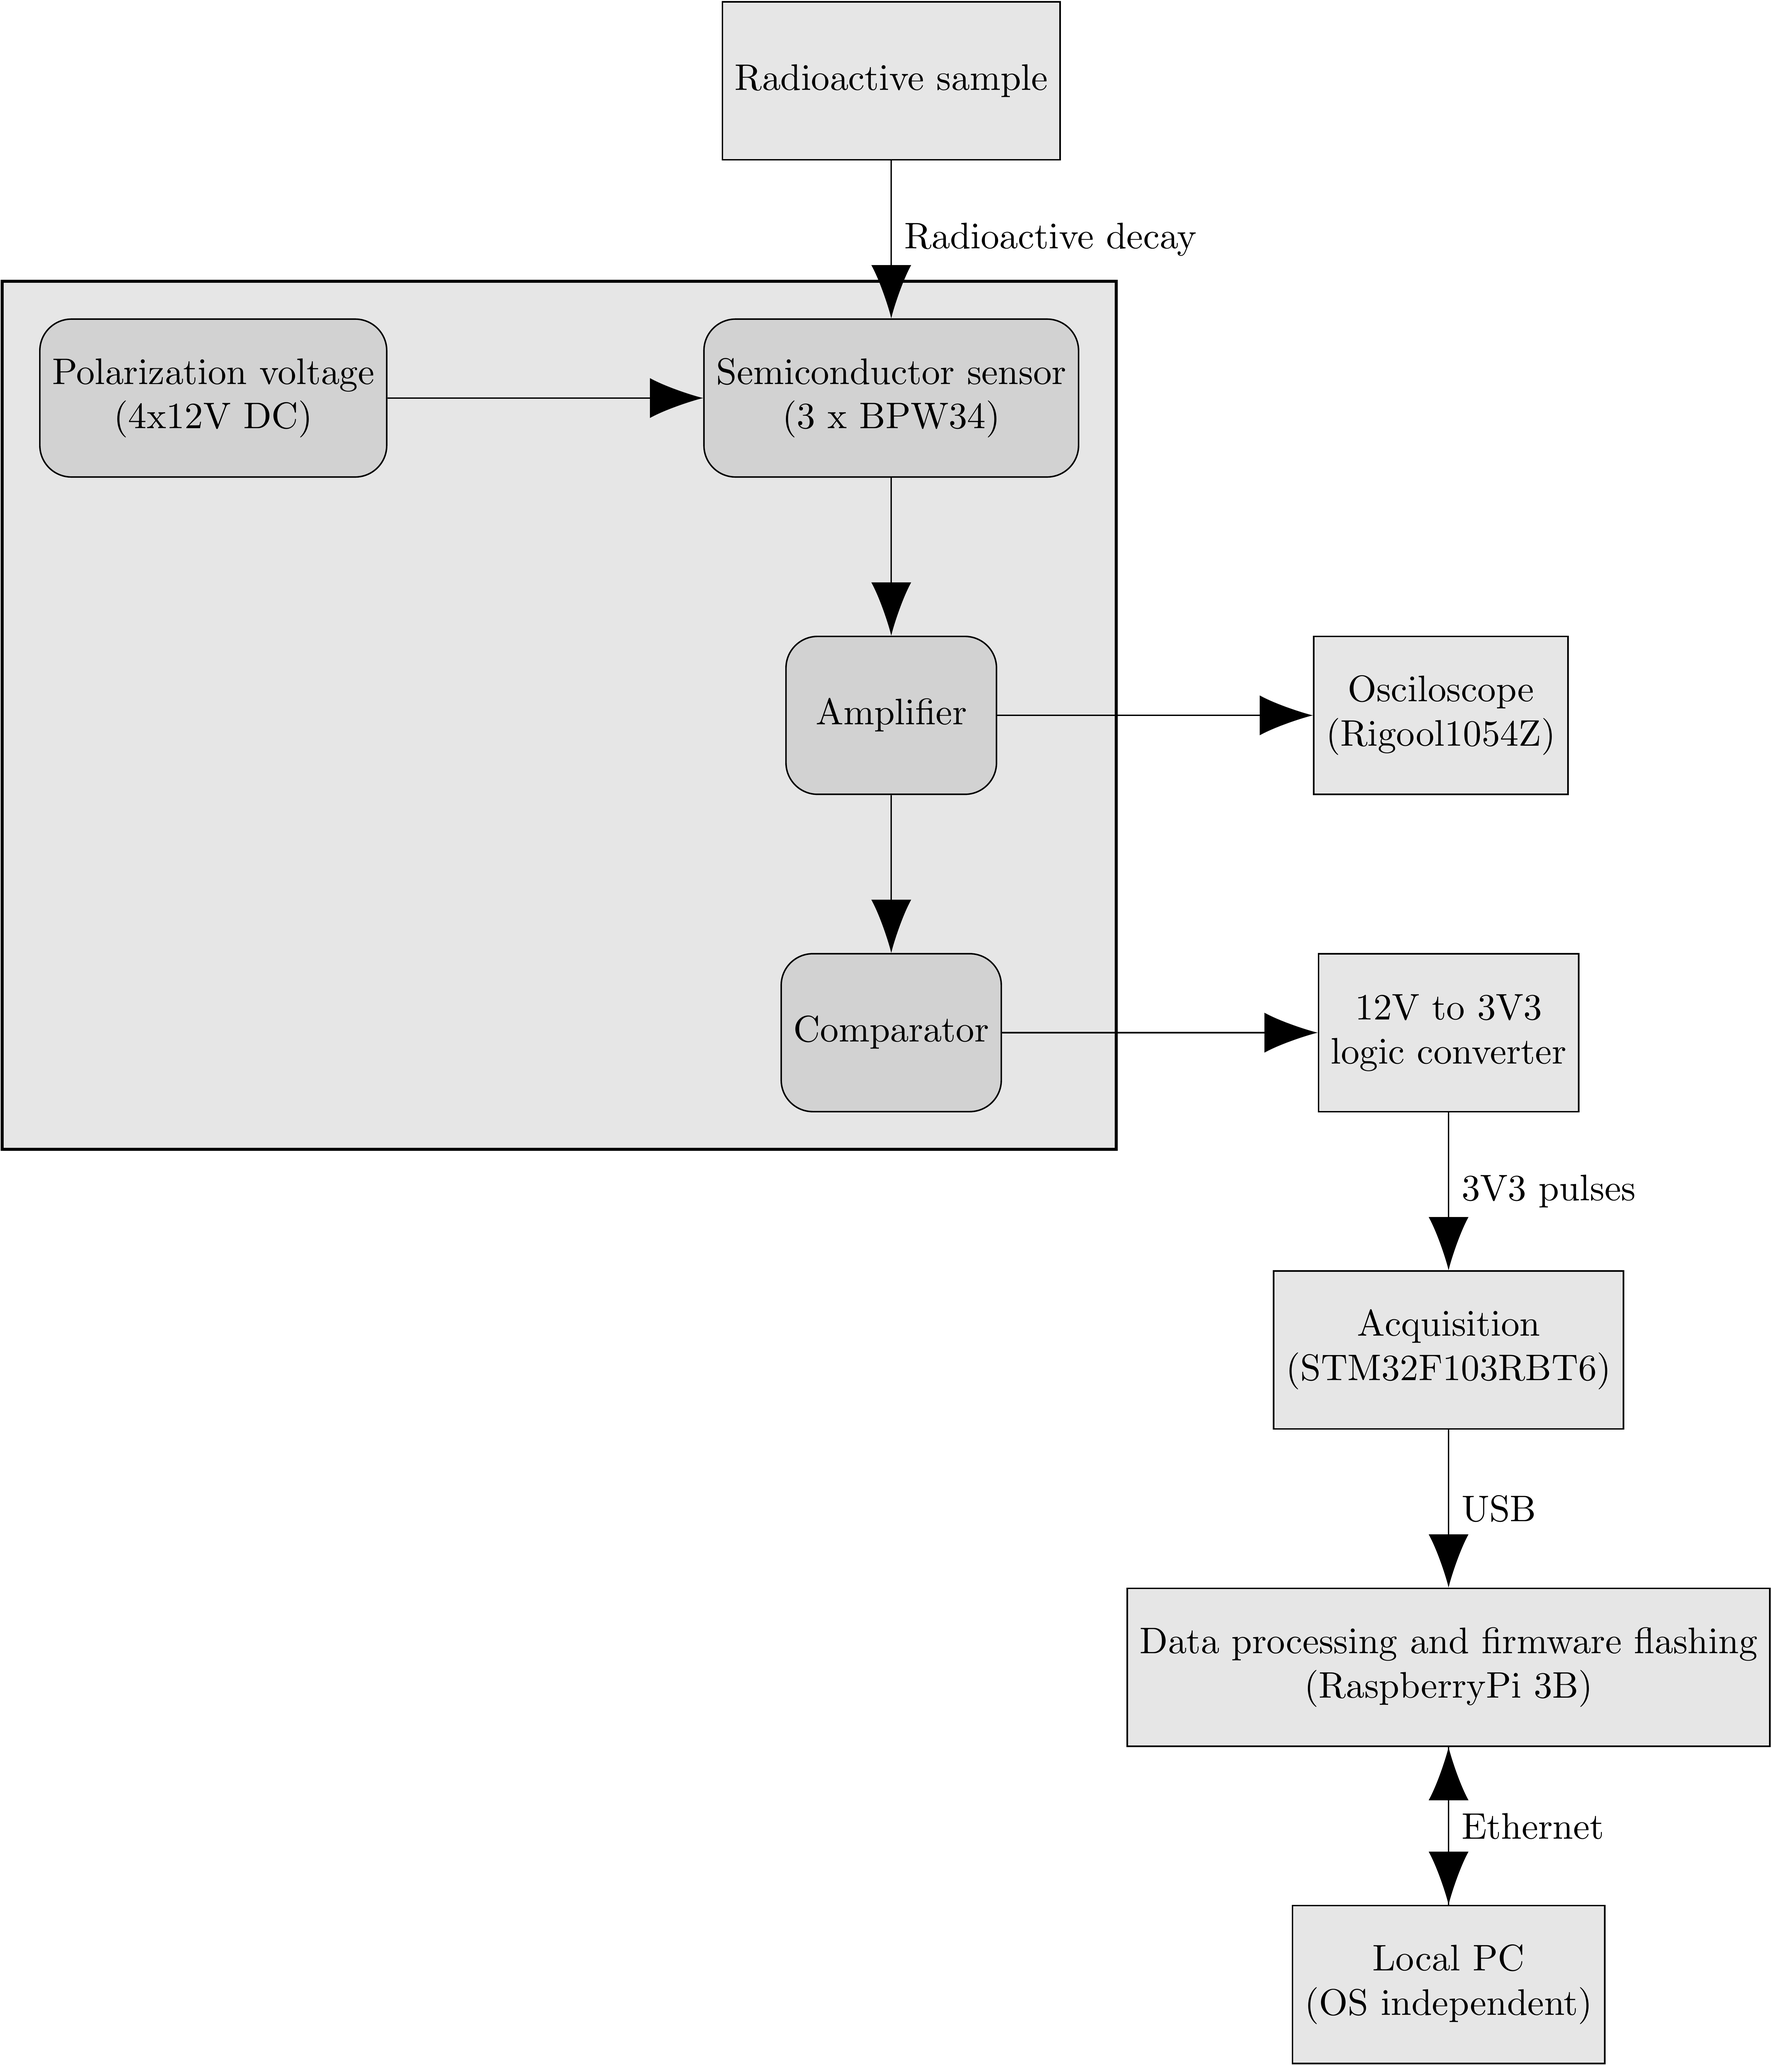
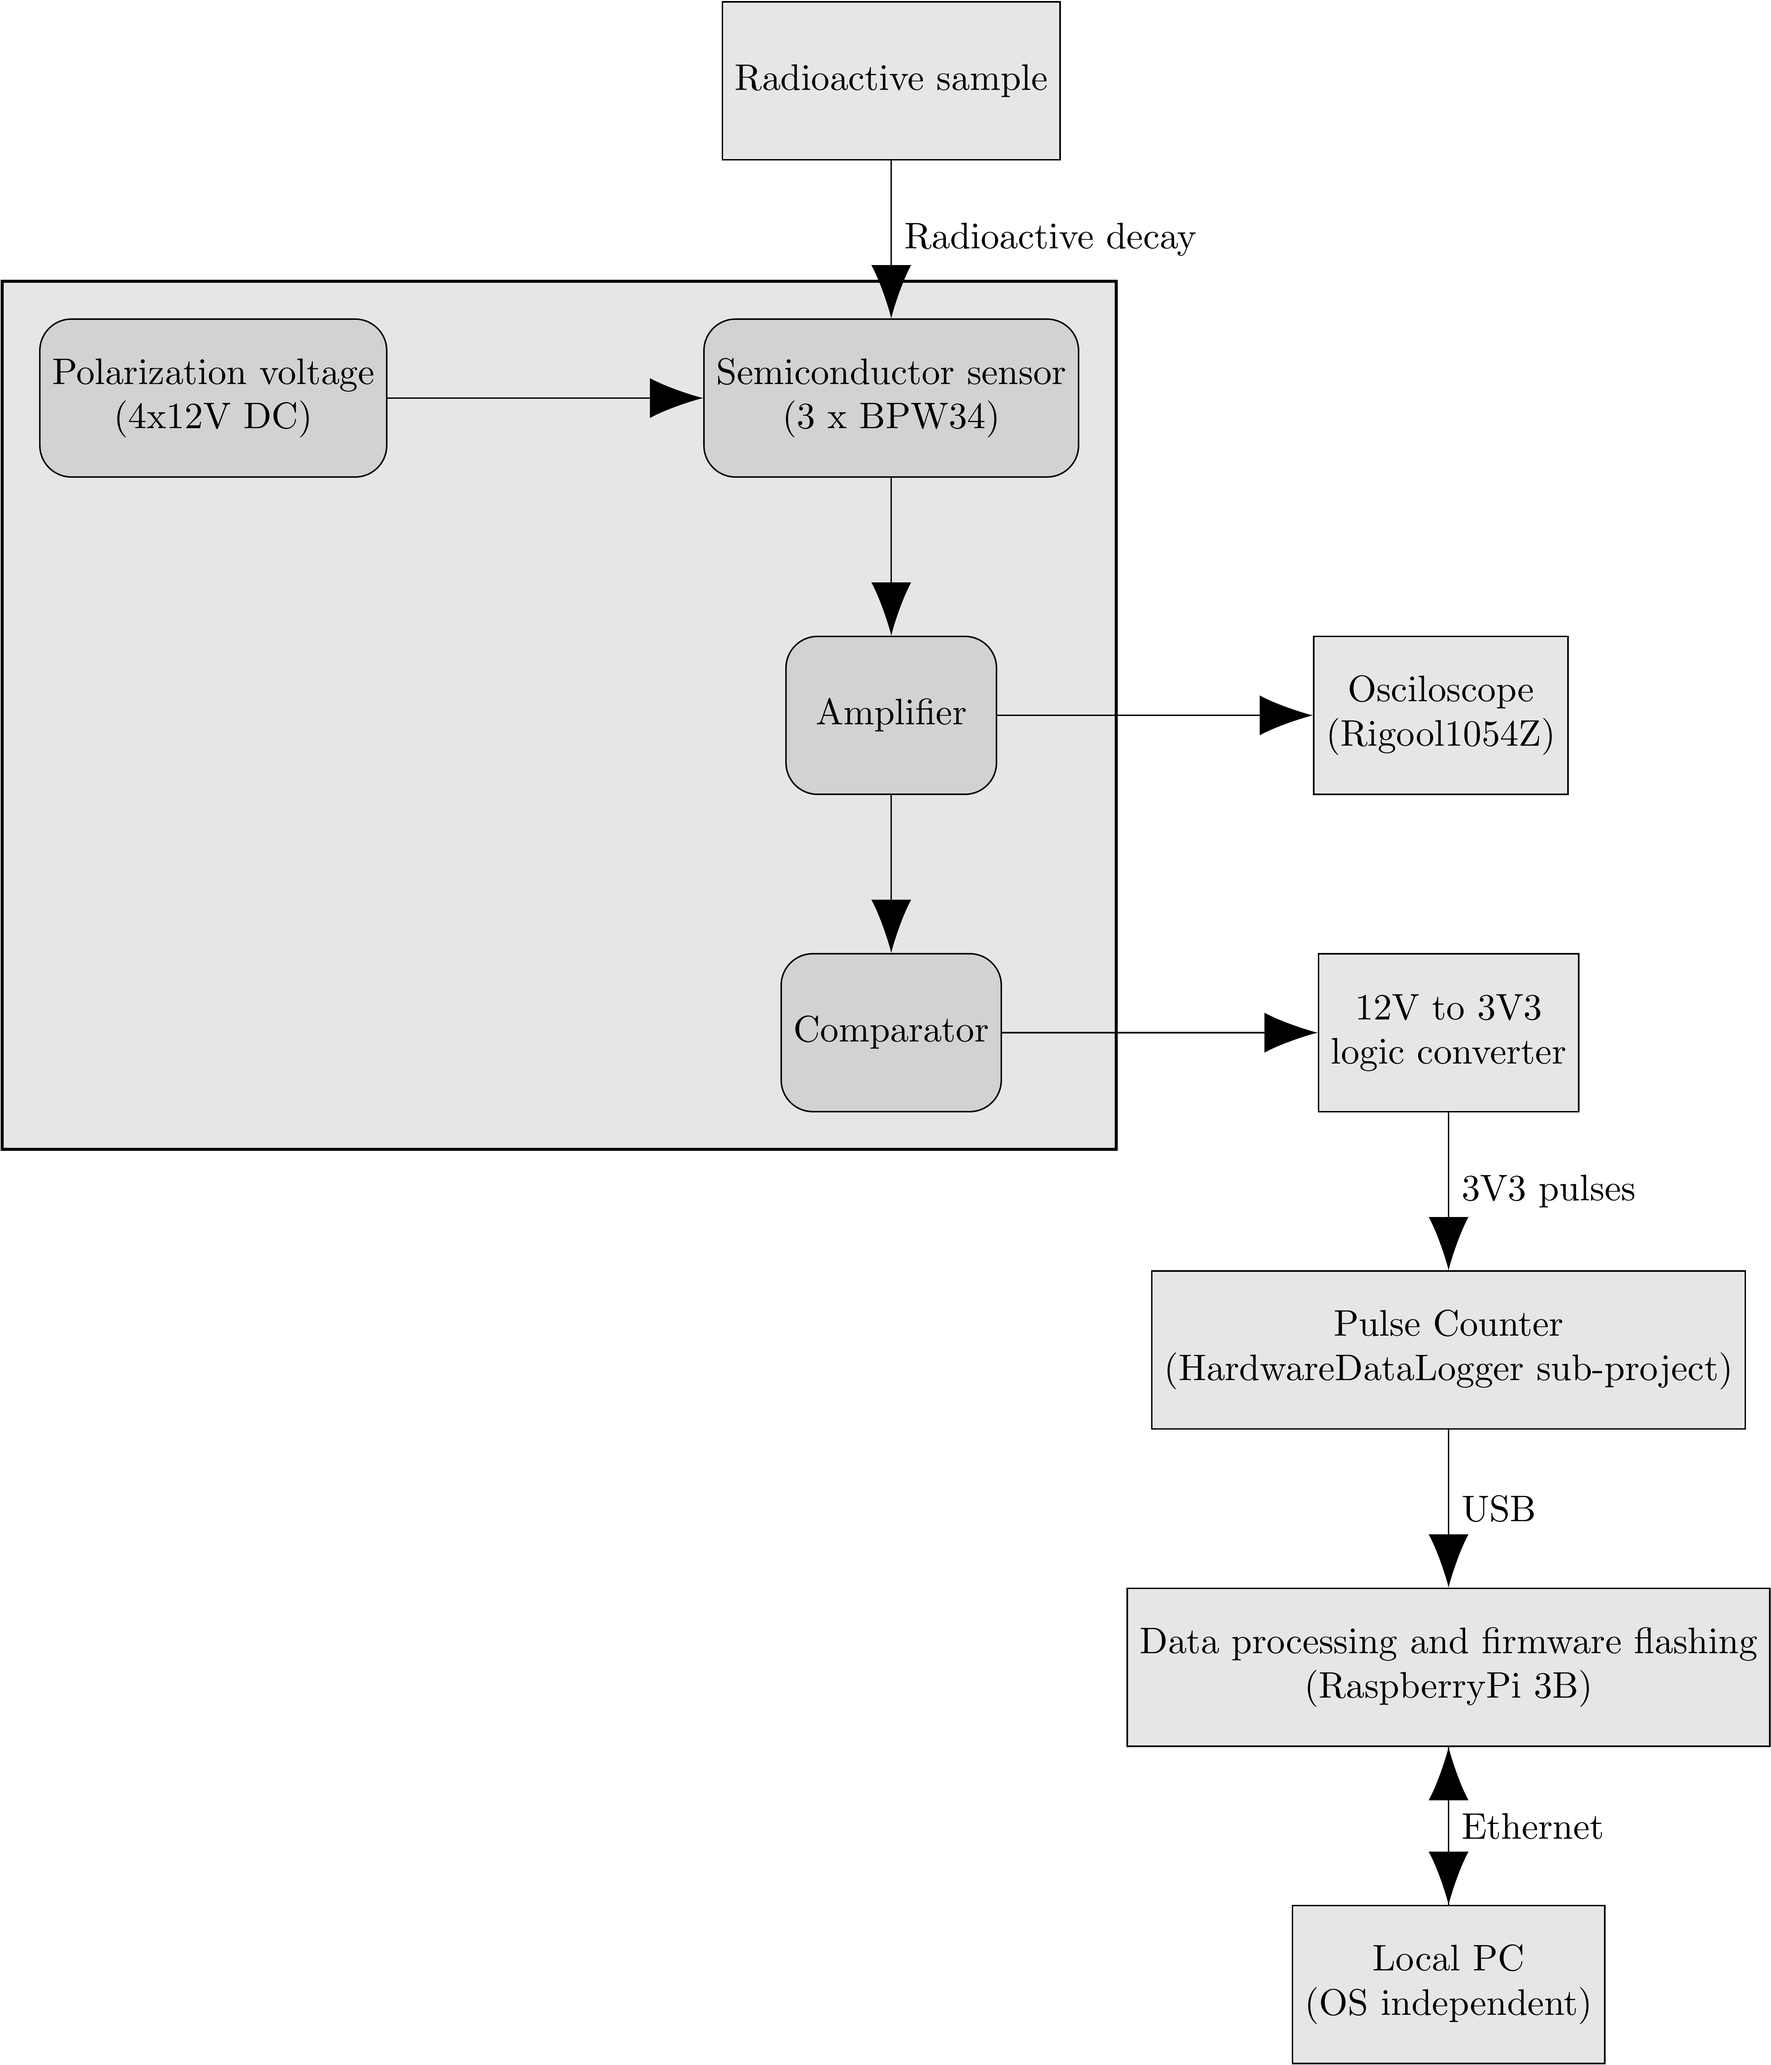
docs update

Changed region(s): [[0.6226, 0.5936, 0.9962, 0.7185]]

diff --git a/Documentation/Diagrams/ArchitectureOverview.tex b/Documentation/Diagrams/ArchitectureOverview.tex
@@ -27,7 +27,7 @@
 \node (comparator) [component, below=of amplifier] {Comparator};
 \node (converter) [system, right=of comparator] {12V to 3V3\\ logic converter};
 
-\node (cpu) [system, below=of converter] {Acquisition\\ (STM32F103RBT6)};
+\node (cpu) [system, below=of converter] {Pulse Counter\\ (HardwareDataLogger sub-project)};
 
 \node (pi) [system, below=of cpu] {Data processing and firmware flashing\\ (RaspberryPi 3B)};
 \node (pc) [system, below=of pi] {Local PC\\ (OS independent)};

diff --git a/README.md b/README.md
@@ -15,6 +15,7 @@ There are many ways to measure radioactivity level, semiconductor detectors sens
 
 ![architecture](https://raw.githubusercontent.com/RobertGawron/SemiconductorRadioactivityDetector/master/Documentation/Diagrams/ArchitectureOverview-1.png)
 
+[HardwareDataLogger](https://github.com/RobertGawron/HardwareDataLogger) is a simple pulse counter based on NUCLEO-F091RC with additional shield (for real-time data display using LCD).
 
 ## Hardware
 
@@ -28,6 +29,6 @@ PCB project was done in KiCAD.
 
 ## Software
 
-* Firmware for data acquisition comes from my [Geiger Counter](https://github.com/RobertGawron/GeigerMullerCounter) project.
-* ["Data processing and firmware flashing" node architecture
+
+* [Architecture of "Data processing and firmware flashing" node
 ](https://github.com/RobertGawron/SemiconductorRadioactivityDetector/wiki/%22Data-processing-and-firmware-flashing%22-node-architecture)
